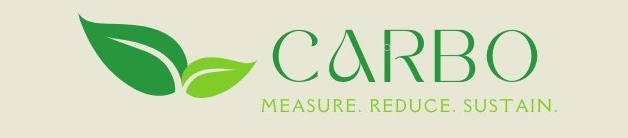
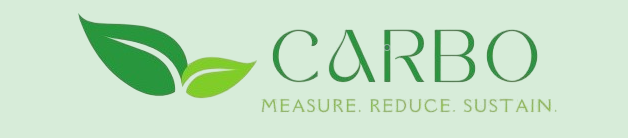
homepage ui update

diff --git a/src/app/page.js b/src/app/page.js
@@ -17,44 +17,41 @@ import "./page.css";
 const TechFestSection = () => {
   return (
     <section>
-      <div className="bg-[#d8f0ab] text-white py-20">
-        <div className="container mx-auto flex flex-col md:flex-row items-center my-12 md:my-24">
-          {/* Left Content */}
-          <div className="flex flex-col w-full lg:w-1/3 justify-center items-start p-8">
-            <h1 className="text-3xl md:text-5xl p-2 text-[#376d08] tracking-loose">Carbo</h1>
-            <h2 className="text-xl md:text-sm text-[#376d08] leading-relaxed md:leading-snug mb-2">
-              MEASURE. REDUCE. SUSTAIN.
-            </h2>
-            <p className="text-sm md:text-base text-gray-50 mb-4">
-              Explore your favourite events and register now to showcase your talent and win exciting prizes.
-            </p>
-            <a
-              href="#"
-              className="bg-transparent hover:bg-yellow-300 text-yellow-300 hover:text-black rounded shadow hover:shadow-lg py-2 px-4 border border-yellow-300 hover:border-transparent"
-            >
-              Explore Now
-            </a>
-          </div>
-
+      <div className="bg-[#A5D6A7] text-white py-20">
+  <div className="container mx-auto flex flex-col md:flex-row items-center my-12 md:my-24">
+    {/* Left Content */}
+    <div className="flex flex-col w-full lg:w-1/3 justify-center items-start p-8">
+      <h1 className="text-4xl md:text-6xl p-2 text-[#376d08] tracking-loose">Carbo</h1>
+      <h2 className="text-2xl md:text-xl text-[#376d08] leading-relaxed md:leading-snug mb-2">
+        MEASURE. REDUCE. SUSTAIN.
+      </h2>
+      <p className="text-lg text-[#013220] md:text-xl text-gray-50 mb-4">
+      Measure your carbon footprint, reduce your impact, and build a greener future with Carbo.
+      </p>
+      <a
+        href="/calculator"
+        className="bg-transparent hover:bg-[#2ECC71] text-[#004D40] border-[#004D40] hover:text-black rounded shadow hover:shadow-lg py-2 px-4 border border-[#D7ECD9] hover:border-[#013220]"
+      >
+        Calculate
+      </a>
+    </div>
           {/* Right Content */}
-          <div className="p-8 mt-12 mb-6 md:mb-0 md:mt-0 ml-0 md:ml-12 lg:w-2/3 justify-center">
-            <div className="h-48 flex flex-wrap content-center">
-              <div>
-                <img
-                  className="inline-block mt-28 hidden xl:block"
-                  src="https://user-images.githubusercontent.com/54521023/116969935-c13d5b00-acd4-11eb-82b1-5ad2ff10fb76.png"
-                  alt="TechFest Illustration 1"
-                />
-              </div>
-              <div>
-                <img
-                  className="inline-block mt-24 md:mt-0 p-8 md:p-0"
-                  src="https://user-images.githubusercontent.com/54521023/116969931-bedb0100-acd4-11eb-99a9-ff5e0ee9f31f.png"
-                  alt="TechFest Illustration 2"
-                />
-              </div>
-              <div>
-              </div>
+          <div className="p-8 mt-12 mb-6 md:mb-0 md:mt-0 ml-0 md:ml-12 lg:w-2/3 flex justify-end">
+          <div className="h-48 flex flex-wrap content-center">
+            <div>
+              <img
+                className="inline-block mt-28 hidden xl:block"
+                src="https://user-images.githubusercontent.com/54521023/116969935-c13d5b00-acd4-11eb-82b1-5ad2ff10fb76.png"
+                alt="TechFest Illustration 1"
+              />
+            </div>
+            <div>
+              <img
+                className="inline-block mt-24 md:mt-0 p-8 md:p-0"
+                src="https://user-images.githubusercontent.com/54521023/116969931-bedb0100-acd4-11eb-99a9-ff5e0ee9f31f.png"
+                alt="TechFest Illustration 2"
+              />
+            </div>
             </div>
           </div>
         </div>
@@ -69,13 +66,15 @@ export default function Page() {
 
   return (
     <>
-      <div className="min-h-screen bg-[#d8f0ab] py-6 flex flex-col gap-6 px-4 sm:px-6 md:px-10 lg:px-16">
+      <div className="min-h-screen bg-[#A5D6A7] py-6 flex flex-col gap-6 px-4 sm:px-6 md:px-10 lg:px-16">
         {/* TechFest Section */}
         <TechFestSection />
 
         {/* FAQ Section */}
-        <section className="bg-[#fdd7b0] py-8 px-6 sm:px-8 md:px-12 rounded-xl shadow-lg">
-          <h3 className="text-2xl sm:text-3xl lg:text-4xl text-center font-bold mb-8">Frequently Asked Questions</h3>
+        <section className="bg-[#AED581] py-8 px-6 sm:px-8 md:px-12 rounded-xl shadow-xl">
+          <h3 className="text-2xl sm:text-3xl lg:text-4xl text-center font-bold mb-8">
+            Frequently Asked Questions
+          </h3>
           <div className="grid grid-cols-1 sm:grid-cols-2 gap-6">
             {[
               {
@@ -98,22 +97,6 @@ export default function Page() {
                 answer:
                   "There are many actions you can take to reduce your carbon footprint, including using public transportation, driving fuel-efficient vehicles, conserving energy at home, recycling, reducing meat consumption, and supporting sustainable products and practices.",
               },
-            ].map((item, index) => (
-              <div
-                key={index}
-                className="p-6 bg-white rounded-lg shadow-md hover:shadow-xl transition duration-300 ease-in-out"
-              >
-                <h4 className="text-lg sm:text-xl font-semibold text-gray-800 mb-4">{item.question}</h4>
-                <p className="text-sm md:text-base text-gray-700 leading-relaxed">{item.answer}</p>
-              </div>
-            ))}
-          </div>
-        </section>
-
-        {/* Continued FAQ Section */}
-        <section className="bg-[#e0dfce] py-8 px-6 sm:px-8 md:px-12 rounded-xl shadow-lg mt-6">
-          <div className="grid grid-cols-1 sm:grid-cols-2 gap-6">
-            {[
               {
                 question: "How often should I check my carbon emissions on Carbo?",
                 answer:
@@ -139,12 +122,17 @@ export default function Page() {
                 key={index}
                 className="p-6 bg-white rounded-lg shadow-md hover:shadow-xl transition duration-300 ease-in-out"
               >
-                <h4 className="text-lg sm:text-xl font-semibold text-gray-800 mb-4">{item.question}</h4>
-                <p className="text-sm md:text-base text-gray-700 leading-relaxed">{item.answer}</p>
+                <h4 className="text-lg sm:text-xl font-semibold text-gray-800 mb-4">
+                  {item.question}
+                </h4>
+                <p className="text-sm md:text-base text-gray-700 leading-relaxed">
+                  {item.answer}
+                </p>
               </div>
             ))}
           </div>
         </section>
+
       </div>
     </>
   );

diff --git a/src/components/Header.jsx b/src/components/Header.jsx
@@ -14,7 +14,7 @@ import React from "react";
 
 function Header() {
   return (
-    <div className="sticky top-0 z-50 flex flex-wrap items-center justify-between bg-[#8ac655] px-5 py-4">
+    <div className="sticky top-0 z-50 flex flex-wrap items-center justify-between bg-[#D7ECD9] px-5 py-4">
       {/* Left Section: Logo and Navigation Links */}
       <div className="flex flex-wrap items-center gap-4 w-full md:w-auto justify-between">
         {/* Header Image */}

diff --git a/src/components/Footer.jsx b/src/components/Footer.jsx
@@ -12,7 +12,7 @@ export default function Footer() {
     };
 
     return (
-        <footer className="bg-[#8ac655] py-10">
+        <footer className="bg-[#D7ECD9] py-10">
             <div className="container mx-auto px-4 sm:px-6 md:px-12 text-gray-300">
                 <div className="grid grid-cols-1 sm:grid-cols-1 md:grid-cols-3 gap-8">
                     {/* Contact Details */}
